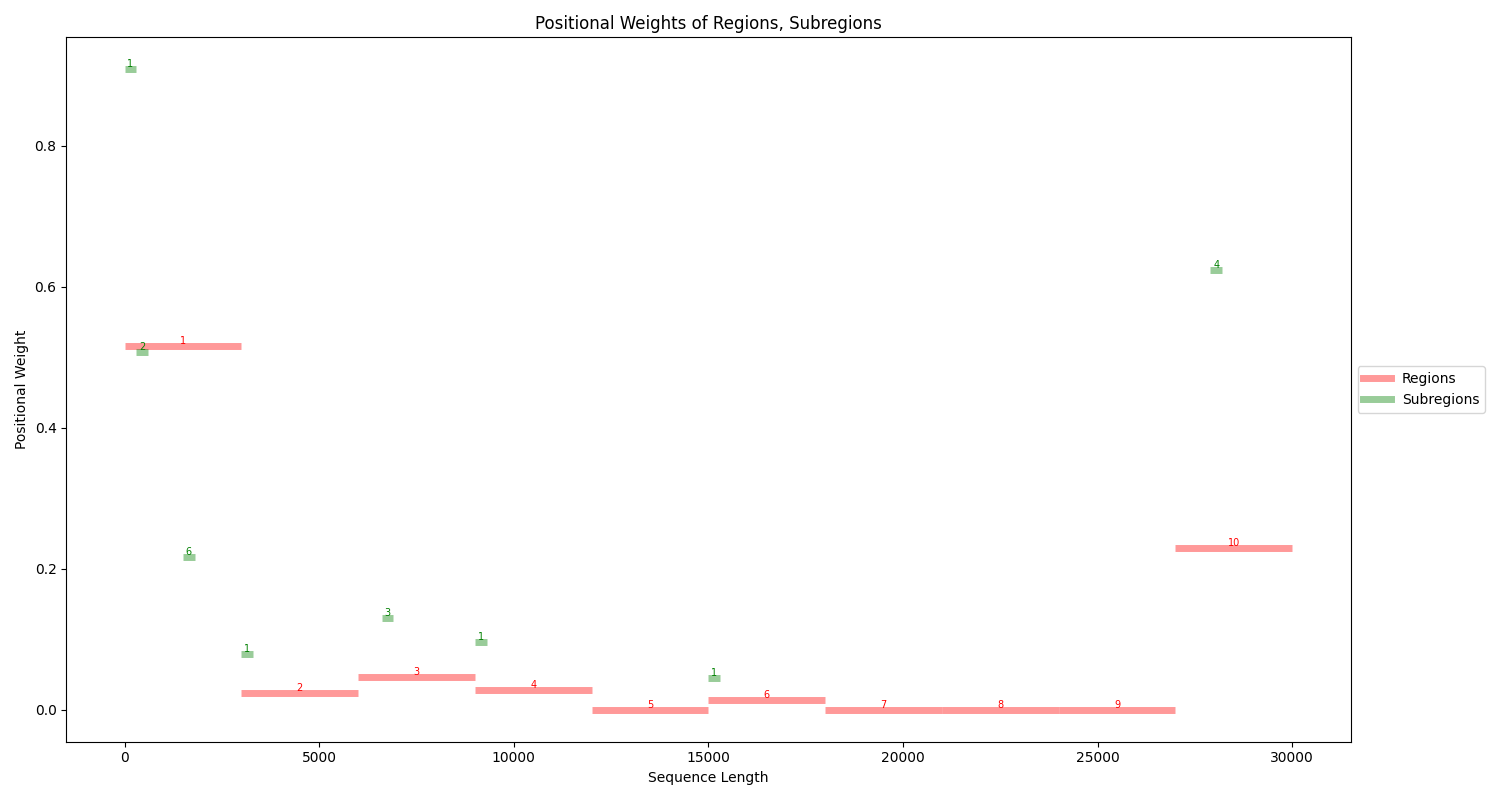
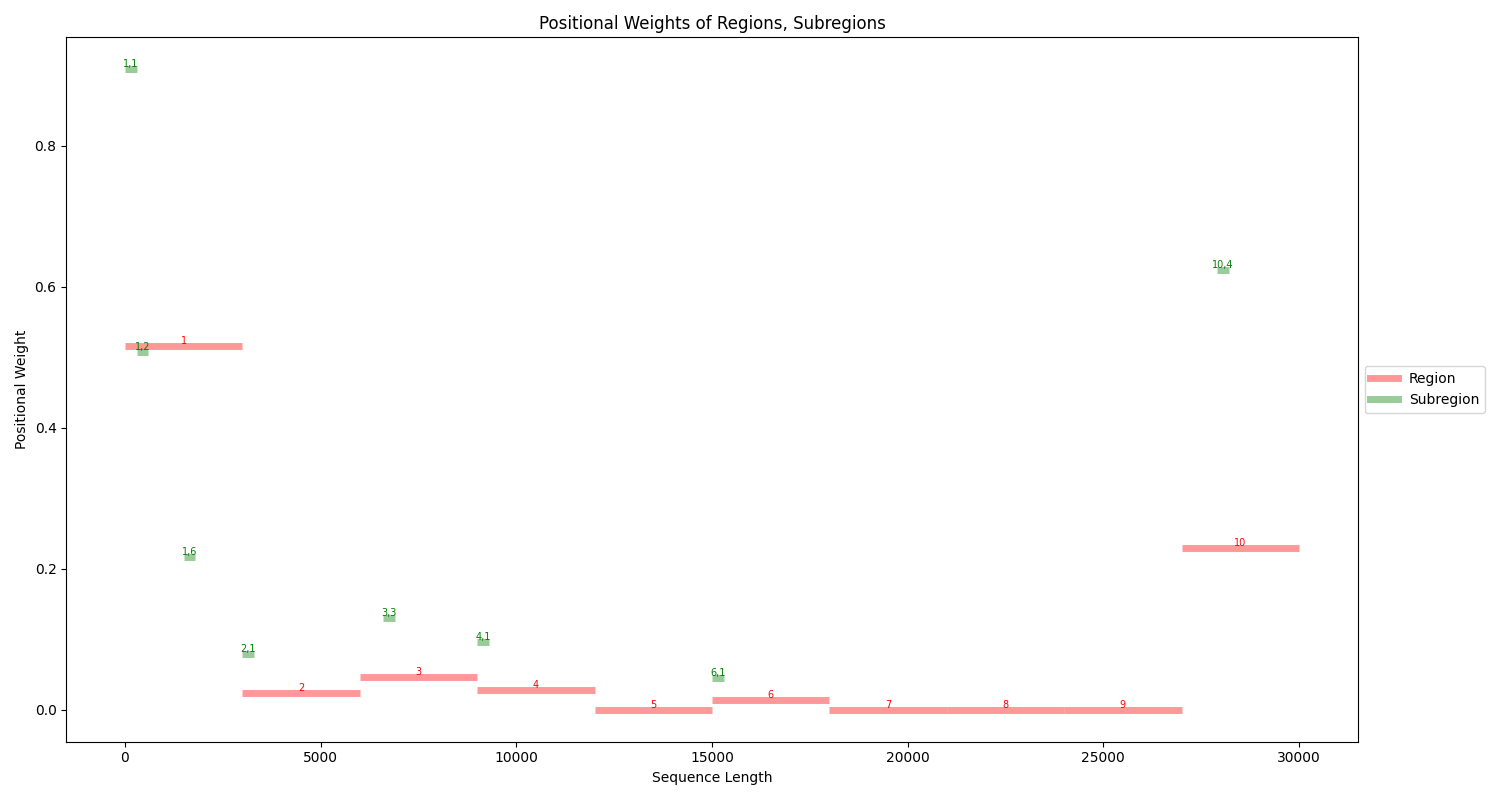
Update plots and README with corrected labeling for subregions and sub-subregions

diff --git a/src/plotter.py b/src/plotter.py
@@ -142,38 +142,26 @@ def extract_plot_data_from_details(region_details):
             sub_start, sub_end = subregion_detail['subregion_range']
             subregion_weight = subregion_detail['subregion_weight']
             if subregion_weight != 0:
-                subregion_data.append((sub_start, sub_end, subregion_weight, subregion_detail['subregion_number'], region_detail['region_number']))
+                subregion_data.append((sub_start, sub_end, subregion_weight, region_detail['region_number'], subregion_detail['subregion_number']))
 
             for subsubregion_detail in subregion_detail['subsubregions']:
                 # Extract sub-subregion data
                 subsub_start, subsub_end = subsubregion_detail['subsubregion_data'][0]
                 subsubregion_weight = subsubregion_detail['subsubregion_data'][2]
                 if subsubregion_weight != 0:
-                    subsubregion_data.append((subsub_start, subsub_end, subsubregion_weight, subsubregion_detail['subsubregion_number'], subregion_detail['subregion_number'], region_detail['region_number']))
+                    subsubregion_data.append((subsub_start, subsub_end, subsubregion_weight, region_detail['region_number'], subregion_detail['subregion_number'], subsubregion_detail['subsubregion_number']))
                 for mutation in subsubregion_detail['subsubregion_data'][1]:
                     mutation_positions.append(mutation[0])
                     mutation_weights.append(subsubregion_weight)
     
     return subsubregion_data, subregion_data, region_data, mutation_positions, mutation_weights
-
-# Function to add interval bars and labels
 def add_interval_bars(ax, data, color, label, hierarchy=False):
     for start, end, weight, *numbers in data:
         ax.hlines(weight, start, end, colors=color, alpha=0.4, linewidth=5)
         if hierarchy:
-            ax.text((start + end) / 2, weight, ",".join(map(str, numbers)), fontsize=7, color=color, ha='center', va='bottom')
+            ax.text((start + end) / 2, weight, f"{numbers[0]},{numbers[1]}", fontsize=7, color=color, ha='center', va='bottom')
         else:
             ax.text((start + end) / 2, weight, f"{numbers[0]}", fontsize=7, color=color, ha='center', va='bottom')
-
-# Function to add labels and prevent overlap
-def add_labels_with_prevention(ax, positions, weights, color):
-    y_positions = []
-    for i, (pos, weight) in enumerate(zip(positions, weights)):
-        y = weight + 0.02
-        while any(abs(y - prev_y) < 0.05 for prev_y in y_positions):
-            y += 0.05
-        y_positions.append(y)
-        ax.text(pos, y, str(pos), fontsize=7, color=color, ha='center', va='bottom')
 
 def plot_data(data, label, color, title, output_dir, file_name, hierarchy=False, points=False):
     fig, ax = plt.subplots(figsize=(15, 8))
@@ -184,9 +172,9 @@ def plot_data(data, label, color, title, output_dir, file_name, hierarchy=False,
             mid_point = (start + end) / 2
             ax.scatter(mid_point, weight, color=color, alpha=0.4, s=5)
             if hierarchy:
-                ax.text(mid_point, weight, ",".join(map(str, numbers)), fontsize=7, color=color, ha='center', va='bottom')
+                ax.text(mid_point, weight, f"{numbers[0]},{numbers[1]},{numbers[2]}", fontsize=7, color=color, ha='center', va='bottom')
             else:
-                ax.text(mid_point, weight, f"{numbers[0]}", fontsize=7, color=color, ha='center', va='bottom')
+                ax.text(mid_point, weight, f"{numbers[-1]}", fontsize=7, color=color, ha='center', va='bottom')
     else:
         # Add interval bars
         add_interval_bars(ax, data, color, label, hierarchy=hierarchy)
@@ -209,7 +197,6 @@ def plot_data(data, label, color, title, output_dir, file_name, hierarchy=False,
     plt.savefig(plot_file)
     plt.close(fig)
 
-
 def plot_regions_subregions_positional_weights(region_details, output_dir):
     # Extract plot data
     subsubregion_data, subregion_data, region_data, mutation_positions, mutation_weights = extract_plot_data_from_details(region_details)
@@ -218,14 +205,13 @@ def plot_regions_subregions_positional_weights(region_details, output_dir):
     fig, ax = plt.subplots(figsize=(15, 8))
 
     # Add interval bars for regions and subregions
-    add_interval_bars(ax, region_data, 'red', 'Regions')
-    add_interval_bars(ax, subregion_data, 'green', 'Subregions')
-
+    add_interval_bars(ax, region_data, 'red', 'Region')
+    add_interval_bars(ax, subregion_data, 'green', 'Subregion', hierarchy=True)
 
     # Custom legend
     handles = [
-        plt.Line2D([0], [0], color='red', linewidth=5, label='Regions', alpha=0.4),
-        plt.Line2D([0], [0], color='green', linewidth=5, label='Subregions', alpha=0.4),
+        plt.Line2D([0], [0], color='red', linewidth=5, label='Region', alpha=0.4),
+        plt.Line2D([0], [0], color='green', linewidth=5, label='Subregion', alpha=0.4),
     ]
 
     # Labels and legend
@@ -241,7 +227,6 @@ def plot_regions_subregions_positional_weights(region_details, output_dir):
     plt.savefig(plot_file)
     plt.close(fig)
 
-
 def plot_positional_weights(region_details, output_dir):
     # Extract plot data
     subsubregion_data, subregion_data, region_data, mutation_positions, mutation_weights = extract_plot_data_from_details(region_details)
@@ -250,20 +235,20 @@ def plot_positional_weights(region_details, output_dir):
     fig, ax = plt.subplots(figsize=(15, 8))
 
     # Add interval bars for regions and subregions
-    add_interval_bars(ax, region_data, 'red', 'Regions')
-    add_interval_bars(ax, subregion_data, 'green', 'Subregions')
+    add_interval_bars(ax, region_data, 'red', 'Region')
+    add_interval_bars(ax, subregion_data, 'green', 'Region, Subregion', hierarchy=True)
 
     # Plot points for sub-subregions
     for start, end, weight, *numbers in subsubregion_data:
         mid_point = (start + end) / 2
         ax.scatter(mid_point, weight, color='blue', alpha=0.4, s=5)
-        ax.text(mid_point, weight, ",".join(map(str, numbers)), fontsize=7, color='blue', ha='center', va='bottom')
+        ax.text(mid_point, weight, f"{numbers[0]},{numbers[1]},{numbers[2]}", fontsize=7, color='blue', ha='center', va='bottom')
 
     # Custom legend
     handles = [
-        plt.Line2D([0], [0], color='red', linewidth=5, label='Regions', alpha=0.4),
-        plt.Line2D([0], [0], color='green', linewidth=5, label='Subregions', alpha=0.4),
-        plt.Line2D([0], [0], marker='o', color='blue', markersize=3, label='Sub-subregions', linestyle='', alpha=0.4)
+        plt.Line2D([0], [0], color='red', linewidth=5, label='Region', alpha=0.4),
+        plt.Line2D([0], [0], color='green', linewidth=5, label='Subregion', alpha=0.4),
+        plt.Line2D([0], [0], marker='o', color='blue', markersize=3, label='Sub-subregion', linestyle='', alpha=0.4)
     ]
 
     # Labels and legend
@@ -281,8 +266,9 @@ def plot_positional_weights(region_details, output_dir):
 
     # Generate individual plots
     plot_data(region_data, 'Region', 'red', 'Positional Weights of Regions', output_dir, 'positional_weights_regions.png')
-    plot_data(subregion_data, 'Subregion, Region', 'green', 'Positional Weights of Subregions', output_dir, 'positional_weights_subregions.png', hierarchy=True)
-    plot_data(subsubregion_data, 'Sub-subregion, Subregion, Region', 'blue', 'Positional Weights of Sub-subregions', output_dir, 'positional_weights_subsubregions.png', hierarchy=True, points=True)
+    plot_data(subregion_data, 'Subregion', 'green', 'Positional Weights of Subregions', output_dir, 'positional_weights_subregions.png', hierarchy=True)
+    plot_data(subsubregion_data, 'Sub-subregion', 'blue', 'Positional Weights of Sub-subregions', output_dir, 'positional_weights_subsubregions.png', hierarchy=True, points=True)
+
 
 
 def generate_plots(positional_weights_0, positional_weights_15, combined_data, region_details, output_dir):
@@ -300,7 +286,6 @@ def generate_plots(positional_weights_0, positional_weights_15, combined_data, r
         os.makedirs(output_dir)
 
     plot_positional_weights_by_mutation_positions(positional_weights_0, positional_weights_15, combined_data, output_dir)
-    # plot_positional_weights_by_subsubregion_ranges(positional_weights_0, positional_weights_15, combined_data, output_dir)
     plot_regions_subregions_positional_weights(region_details, output_dir)
 
     plot_density_for_positional_weights(positional_weights_0, positional_weights_15, combined_data, output_dir)

diff --git a/README.md b/README.md
@@ -60,7 +60,7 @@ This directory contains the output results from the algorithm. The following fil
    - Description: This plot shows the positional weights of different sub-subregions in the sequence.
    - ![](ECMPIA_result/positional_weights_subsubregions.png)
 
-**Note:** The labels for plots 3, 4, 5, 6, and 7 are numbers representing regions, subregions, and sub-subregions. Users can associate these numbers with their respective ranges across the sequence using the information provided in the `region_details.csv` file.
+**Note:** The labels for plots 3, 4, 5, 6, and 7 are numbers representing regions, subregions, and sub-subregions. The format for these labels is "region, subregion" for subregions and "region, subregion, sub-subregion" for sub-subregions. Users can associate these numbers with their respective ranges across the sequence using the information provided in the `region_details.csv` file.
 
 ## System Requirements
 
